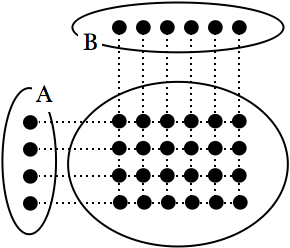
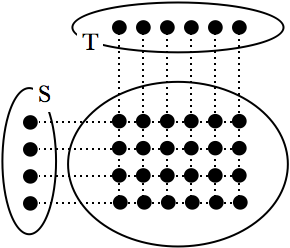
figures in Sets

Changed region(s): [[0.2793, 0.1129, 0.3414, 0.1976], [0.1241, 0.3387, 0.1862, 0.4234]]

diff --git a/SETS-BA-LO.tex b/SETS-BA-LO.tex
@@ -329,17 +329,30 @@ $\emptyset$.
 \subsection{Operations on Sets}
 \label{sec:set-operations}
 
-Given two sets $S$ and $T$, we denote by:
+Given two sets $S$ and $T$ depicted in Fig.~\ref{fig:setInitial}, we denote by:
+\begin{figure}[htb]
+\begin{center}
+        \includegraphics[scale=0.4]{FiguresMaths/setInitial}
+        \caption{Two sets $S$ and $T$.}
+        \label{fig:setInitial}
+\end{center}
+\end{figure}
 \begin{itemize}
 \item
 $S \cap T$\index{$S \cap T$: set intersection} the {\it
   intersection}\index{set!operations!intersection}
 of $S$ and $T$: the set of elements that belong to {\em both} $S$ and
-$T$.
+$T$ (see Fig.~\ref{fig:setIntersection}).
 \[ [s \in S \cap T] \ \ \mbox{ means } \ \ 
 \Big[ [s \in S] \ \mbox{\bf and } \ [s \in T] \Big]
 \]
-
+\begin{figure}[htb]
+\begin{center}
+        \includegraphics[scale=0.4]{FiguresMaths/setIntersection}
+        \caption{Intersection of $S$ and $T$.}
+        \label{fig:setIntersection}
+\end{center}
+\end{figure}
 \item
 $S \cup T$\index{$S \cup T$: set union} the {\it
   union}\index{set!operations!union}
@@ -347,11 +360,18 @@ of $S$ and $T$: the set of elements that belong to $S$, or to $T$, {\em
   or to both}.  (Because of the ``or both'' qualifier, this operation
 is sometimes called {\em inclusive
   union}.)\index{set!operations!inclusive union}
+  Fig.~\ref{fig:setUnion} is an illustration of the union of the sets of Fig.~\ref{fig:setInitial}
 \[ [s \in S \cup T] \ \ \mbox{ means } \ \
 \Big[ [s \in S] \ \mbox{\bf or } \ [s \in T]  \ \mbox{\bf or } \ [s
     \in S \cap T] \Big]
 \]
-
+\begin{figure}[htb]
+\begin{center}
+        \includegraphics[scale=0.4]{FiguresMaths/setUnion}
+        \caption{Union of sets $S$ and $T$.}
+        \label{fig:setUnion}
+\end{center}
+\end{figure}
 \item
 $S \setminus T$\index{$S \setminus T$: set difference} is the {\em
   (set) difference}\index{set!operations!set difference} of $S$ and
@@ -359,6 +379,13 @@ $S \setminus T$\index{$S \setminus T$: set difference} is the {\em
 \[ [s \in S \setminus T] \ \ \mbox{ means } \ \
 \Big[ [s \in S] \ \mbox{\bf and } \ [s \not\in T] \Big]
 \]
+\begin{figure}[htb]
+\begin{center}
+        \includegraphics[scale=0.4]{FiguresMaths/setDiff}
+        \caption{Difference of sets $S$ and $T$ (in grey).}
+        \label{fig:setDiff}
+\end{center}
+\end{figure}
 (Particularly in the United States, one often encounters the notation
  ``$S-T$''\index{$S - T$: set difference} instead of ``$S \setminus
  T$.'')
@@ -410,6 +437,13 @@ the {\em complement} of $S$ (relative to the universal set $U$).
 For instance, the set of odd positive integers is the complement of
 the set of even positive integers, relative to the set of all positive
 integers.
+\begin{figure}[htb]
+\begin{center}
+        \includegraphics[scale=0.4]{FiguresMaths/setComplement}
+        \caption{Complement of set $S$ (in grey) relative to the universal set $U$.}
+        \label{fig:setComplement}
+\end{center}
+\end{figure}
 \end{itemize}
 We note a number of basic identities involving sets and operations on
 them.
@@ -497,7 +531,7 @@ the notion's origin in the formulation of Analytical Geometry by the
 French mathematician-philosopher Ren\'{e} Descartes. 
 \index{Descartes, Ren\'{e}!inventor of Analytical Geometry}
 
-We illustrate the direct product in two ways,in order to capture all
+We illustrate the direct product in two ways, in order to capture all
 of its subtleties: Textually, if $S = \{a,b,c\}$ and $T = \{c,d\}$,
 then
 \[ S \times T \ =  \{
@@ -642,7 +676,7 @@ for this purpose, as the following table suggests.
 \hline
 \mbox{greater than (weak)} & \geq & \not\geq \mbox{ or } < & \mbox{yes} \\
 \hline
-\mbox{generic}  & \rho  & \sim\rho \mbox{ or } \widetilde{\rho} &
+\mbox{generic}  & \rho  & \neg \rho \mbox{ or } \widetilde{\rho} &
 \mbox{no} \\
 \hline
 \end{array}
@@ -2172,17 +2206,16 @@ In its {\em complemented} form, a literal evaluates to {\sc
   false}.
 \end{itemize}
 The following simple example should clarify these terms.
-{\Denis Attention, we use bar as the negation and not tilda...}
 
 \begin{tabular}{ll}
-{\bf The formula}:  & $(\bar{x} \vee y) \wedge (x \vee \bar{y})$ \\
+{\bf The formula}:  & $(\neg {x} \vee y) \wedge (x \vee \neg{y})$ \\
 {\bf The variables}: & $x$ and $y$ \\
-{\bf The literals}:  & $x$ and $y$ (true form); \ $\bar{x}$ and $\bar{y}$
+{\bf The literals}:  & $x$ and $y$ (true form); \ $\neg {x}$ and $\neg {y}$
 (complemented form)
 \end{tabular}
 \[
 \begin{array}{ccccccccccc}
-( & \bar{x} & \vee & y & ) & \wedge & ( & x & \vee & \bar{y} & ) \\
+( & \neg {x} & \vee & y & ) & \wedge & ( & x & \vee & \neg{y} & ) \\
   & \uparrow &     & \uparrow & & & & \uparrow & & \uparrow & \\
   & \mbox{complemented} &  & \mbox{true}  & & & & \mbox{true} &
         & \mbox{complemented} &  \\
